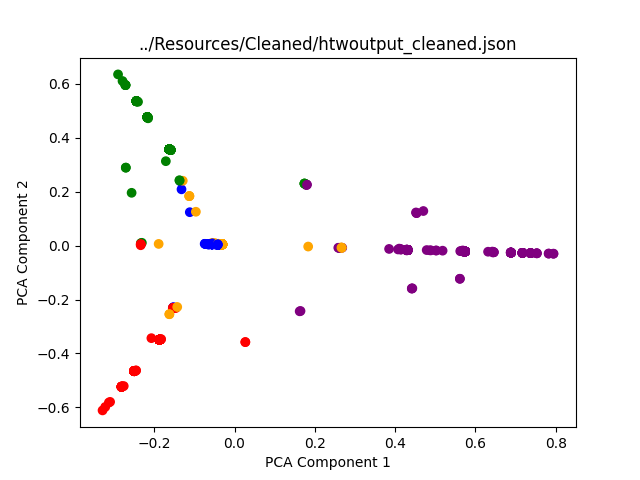
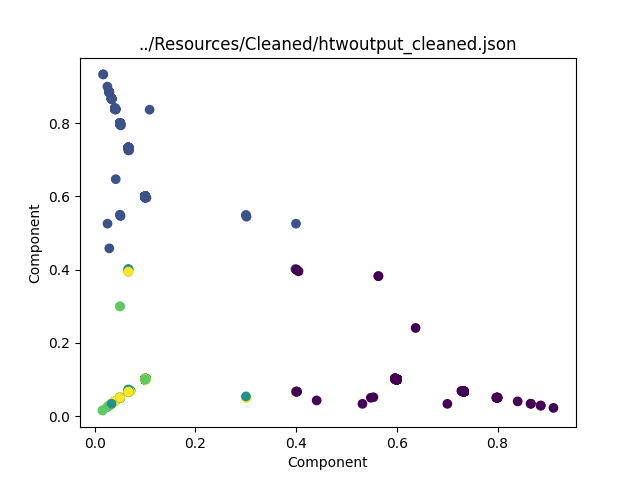
deleted old files commented code

diff --git a/UniCrawler/LDA/kmeans.py b/UniCrawler/LDA/kmeans.py
@@ -1,20 +1,15 @@
 import os
 import json
-import numpy as np
-import pandas as pd
 from sklearn.cluster import KMeans
 from sklearn.feature_extraction.text import TfidfVectorizer
 from sklearn.decomposition import PCA
 from sklearn.preprocessing import normalize
-from sklearn.metrics import pairwise_distances
-
-import nltk
-import string
-
 import matplotlib.pyplot as plt
 
-
-def apply_lda(fname):
+'''
+kmeans using TL-IDF, PCA and k-Means clustering
+'''
+def kmeans(fname):
     content = list()
     # open file
     try:
@@ -49,57 +44,37 @@ def apply_lda(fname):
         print(f"{fname} ist keine gültige JSON.")
 
     if content:
-        tf_idf_vectorizor = TfidfVectorizer(  # tokenizer = tokenize_and_stem,
-            max_features=20000)
+        # TF-IDF
+        tf_idf_vectorizor = TfidfVectorizer(max_features=20000)
         tf_idf = tf_idf_vectorizor.fit_transform(all_text)
         tf_idf_norm = normalize(tf_idf)
         tf_idf_array = tf_idf_norm.toarray()
 
-        # Training LDA-Modell
+        # PCA
         sklearn_pca = PCA(n_components=2)
         Y_sklearn = sklearn_pca.fit_transform(tf_idf_array)
 
-        # Create the k-means clustering model
-        kmeans_model = KMeans(n_clusters=2, max_iter=600, algorithm='lloyd')
+        # Create the k-means clustering model choose different cluster
+        kmeans_model = KMeans(n_clusters=25, max_iter=600, algorithm='lloyd')
         fitted = kmeans_model.fit(Y_sklearn)
         prediction = kmeans_model.predict(Y_sklearn)
 
         plt.scatter(Y_sklearn[:, 0], Y_sklearn[:, 1], c=prediction, s=50, cmap='viridis')
 
 
-        plt.xlabel('PCA Component 1')
-        plt.ylabel('PCA Component 2')
+        plt.xlabel('Component1')
+        plt.ylabel('Component2')
         plt.title(fname)
         output_dir = "./Plot/Kmeans"
         os.makedirs(output_dir, exist_ok=True)
         filename = os.path.basename(fname)
-        output_filename = os.path.join(output_dir, f"{filename}_kmeansplot2.png")
+        output_filename = os.path.join(output_dir, f"{filename}_kmeansplot.png")
         plt.savefig(output_filename)
         plt.close()
-
-        def get_top_features_cluster(tf_idf_array, prediction, n_feats):
-            labels = np.unique(prediction)
-            dfs = []
-            for label in labels:
-                id_temp = np.where(prediction == label)  # indices for each cluster
-                x_means = np.mean(tf_idf_array[id_temp], axis=0)  # returns average score across cluster
-                sorted_means = np.argsort(x_means)[::-1][:n_feats]  # indices with top 20 scores
-                features = tf_idf_vectorizor.get_feature_names_out()
-                best_features = [(features[i], x_means[i]) for i in sorted_means]
-                df = pd.DataFrame(best_features, columns=['features', 'score'])
-                dfs.append(df)
-            return dfs
-
-        dfs = get_top_features_cluster(tf_idf_array, prediction, 15)
 
     else:
         print(f"Content is empty, something went wrong with:{fname}")
 
-
-def write_json(fname, content):
-    with open(fname, 'w') as f:
-        json.dump(content, f)
-        print(f"JSON Datei {fname} erfolgreich erstellt")
 
 
 for root, dirs, files in os.walk('../Resources/Cleaned'):
@@ -108,7 +83,7 @@ for root, dirs, files in os.walk('../Resources/Cleaned'):
             # check for json file
             if (file.endswith('.json')):
                 fname = root + '/' + file
-                apply_lda(fname)
+                kmeans(fname)
             else:
                 print(f"{file} has no json extension.")
     print("finished, no more json files")

diff --git a/UniCrawler/LDA/plot.py b/UniCrawler/LDA/plot.py
@@ -6,11 +6,12 @@ from sklearn.decomposition import LatentDirichletAllocation
 from sklearn.feature_extraction.text import CountVectorizer
 from sklearn.decomposition import PCA
 
-
 '''
 PCA und LDA Plotten aller Daten aus /Resources/Clean
 '''
-def apply_lda(fname):
+
+
+def plot(fname):
     content = list()
     # open file
     try:
@@ -45,7 +46,7 @@ def apply_lda(fname):
         print(f"{fname} ist keine gültige JSON.")
 
     if content:
-        # Vektorisierung des Textes
+        # Vectorizing the text
         vectorizer = CountVectorizer()
         X = vectorizer.fit_transform(all_text)
 
@@ -54,27 +55,26 @@ def apply_lda(fname):
         lda_model = LatentDirichletAllocation(n_components=num_topics)
         X_topics = lda_model.fit_transform(X)
 
-        # Dimensionalität reduzieren mit PCA
+        # dimension reduction with pca
         pca = PCA(n_components=2)
         X_pca = pca.fit_transform(X_topics)
 
         # Get the dominant topic for each document
         dominant_topics = np.argmax(X_topics, axis=1)
 
-        # Define colors for different topics
-        colors = ['red', 'blue', 'green', 'orange', 'purple']
-
         # Visualize the clusters
-        plt.scatter(X_pca[:, 0], X_pca[:, 1], c=[colors[i] for i in dominant_topics])
-        plt.xlabel('PCA Component 1')
-        plt.ylabel('PCA Component 2')
+        # if you want to run with PCA
+        # plt.scatter(X_pca[:, 0], X_pca[:, 1], c=dominant_topics)
+        plt.scatter(X_topics[:, 0], X_topics[:, 1], c=dominant_topics)
+        plt.xlabel('Component')
+        plt.ylabel('Component')
         plt.title(fname)
 
         # output
         output_dir = "./Plot"  # Specify the directory path
         os.makedirs(output_dir, exist_ok=True)
-        filename = os.path.basename(fname)  # Get the base filename without the path
-        output_filename = os.path.join(output_dir, f"{filename}_plot.png")
+        filename = os.path.basename(fname)
+        output_filename = os.path.join(output_dir, f"{filename}_LDAplot.png")
         plt.savefig(output_filename)
         plt.close()
 
@@ -82,22 +82,13 @@ def apply_lda(fname):
     else:
         print(f"Content is empty, something went wrong with: {fname}")
 
-
-def write_json(fname, content):
-    with open(fname, 'w') as f:
-        json.dump(content, f)
-        print(f"JSON Datei {fname} erfolgreich erstellt")
-
-
 for root, dirs, files in os.walk('../Resources/Cleaned'):
     if root == "../Resources/Cleaned":
         for file in files:
             # check for json file
             if (file.endswith('.json')):
                 fname = root + '/' + file
-                apply_lda(fname)
+                plot(fname)
             else:
                 print(f"{file} has no json extension.")
     print("finished, no more json files")
-
-
